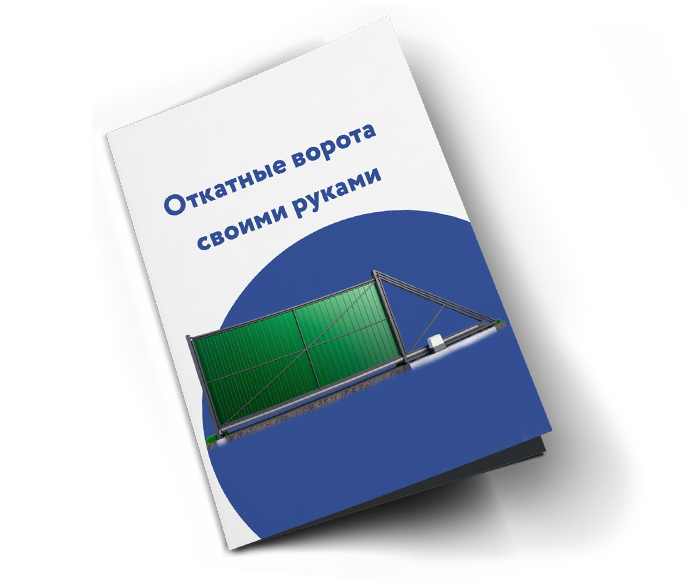
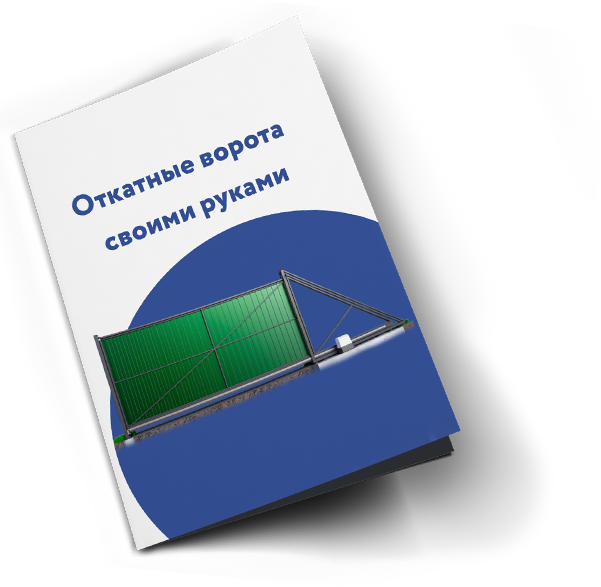
section self arrow width animation

diff --git a/app/css/style.css b/app/css/style.css
@@ -2309,8 +2309,23 @@ a:hover, a:focus {
   .self__box {
     text-align: left;
   }
-  .self__image img {
+  .self__image {
+    position: relative;
+  }
+  .self__img--1 {
+    position: relative;
     max-width: 380px;
+    z-index: 25;
+  }
+  .self__img--2 {
+    position: absolute;
+    left: -15px;
+    top: 160px;
+    z-index: 20;
+    width: 0;
+  }
+  .self__img--2--active {
+    width: 199px;
   }
   .self__text {
     font: 400 18px/27px "Circe", sans-serif;
@@ -2329,6 +2344,29 @@ a:hover, a:focus {
   }
 }
 
+@-webkit-keyframes widthAnimate {
+  0 {
+    width: 0;
+  }
+  100% {
+    width: 199px;
+  }
+}
+
+@keyframes widthAnimate {
+  0 {
+    width: 0;
+  }
+  100% {
+    width: 199px;
+  }
+}
+
+.widthAnimate {
+  -webkit-animation: widthAnimate 5s forwards;
+          animation: widthAnimate 5s forwards;
+}
+
 @media only screen and (min-width: 992px) {
   .self {
     padding: 180px 0 200px;
@@ -2336,11 +2374,14 @@ a:hover, a:focus {
   .self__image {
     position: relative;
   }
-  .self__image img {
+  .self__img--1 {
     max-width: none;
     position: absolute;
-    left: 0;
+    left: 50px;
     top: -100px;
+  }
+  .self__img--2 {
+    top: 135px;
   }
   .self__text {
     font: 400 20px/30px "Circe", sans-serif;
@@ -2351,9 +2392,13 @@ a:hover, a:focus {
 }
 
 @media only screen and (min-width: 1200px) {
-  .self__image img {
+  .self__img--1 {
     top: -120px;
-    left: 50px;
+    left: 100px;
+  }
+  .self__img--2 {
+    left: 25px;
+    top: 110px;
   }
   .form__confident {
     font: 300 14px/21px "Circe", sans-serif;
@@ -2480,11 +2525,18 @@ a:hover, a:focus {
 /* M O D A L S    S T Y L E                 */
 /* ---------------------------------------- */
 .tabs__item {
+  position: relative;
   display: none;
 }
 
 .tabs__item--active {
   display: block;
+}
+
+.tabs__item .ic--length, .tabs__item .ic--height {
+  position: absolute;
+  left: -70px;
+  top: -30px;
 }
 
 .tabs__text {
@@ -2546,6 +2598,7 @@ a:hover, a:focus {
   text-transform: uppercase;
   margin-bottom: 20px;
   text-align: center;
+  padding: 0 65px;
 }
 
 .test__btn {
@@ -2595,6 +2648,7 @@ a:hover, a:focus {
   background-image: -webkit-linear-gradient(45deg, rgba(255, 255, 255, 0.36) 25%, rgba(255, 255, 255, 0) 25%, transparent 50%, rgba(255, 255, 255, 0.36) 50%, rgba(255, 255, 255, 0.36) 75%, transparent 75%, transparent);
   background-image: linear-gradient(45deg, rgba(255, 255, 255, 0.36) 25%, rgba(255, 255, 255, 0) 25%, transparent 50%, rgba(255, 255, 255, 0.36) 50%, rgba(255, 255, 255, 0.36) 75%, transparent 75%, transparent);
   background-size: 10px 10px;
+  margin-bottom: 25px;
 }
 
 .progressbar__status {

diff --git a/app/sass/pages/_main.sass b/app/sass/pages/_main.sass
@@ -814,7 +814,7 @@ a
         color: #212121 
         &:hover,
         &:focus
-          color: #212121 
+          color: #212121  
 +r(760)
   .self
     padding: 140px 0 
@@ -822,8 +822,20 @@ a
     &__box
       text-align: left
     &__image
-      img
+      position: relative  
+    &__img
+      &--1
+        position: relative
         max-width: 380px 
+        z-index: 25
+      &--2
+        position: absolute  
+        left: -15px
+        top: 160px
+        z-index: 20
+        width: 0
+        &--active
+          width: 199px
     &__text
       font: 400 18px/27px $font-circe
       &--span       
@@ -834,27 +846,40 @@ a
     &__btn
       text-align: left 
       .ic
-        bottom: -35px     
+        bottom: -35px  
+@keyframes widthAnimate
+  0 
+    width: 0
+  100%
+    width: 199px
+.widthAnimate
+    animation: widthAnimate 5s forwards          
 +r(992)
   .self
     padding: 180px 0 200px
     &__image
       position: relative
-      img
+    &__img
+      &--1
         max-width: none
         position: absolute
-        left: 0
+        left: 50px
         top: -100px
+      &--2
+        top: 135px  
     &__text
       font: 400 20px/30px $font-circe 
       &--span       
         font: 700 20px/30px $font-circe
 +r(1200)
   .self
-    &__image
-      img
+    &__img
+      &--1
         top: -120px    
-        left: 50px   
+        left: 100px   
+      &--2
+        left: 25px
+        top: 110px  
   .form
     &__confident   
       font: 300 14px/21px $font-circe
@@ -937,9 +962,16 @@ a
 +comment("modals style")
 .tabs
   &__item
+    position: relative
     display: none
     &--active
       display: block
+    .ic
+      &--length,
+      &--height
+        position: absolute  
+        left: -70px
+        top: -30px
   &__text
     color: #fff
     margin-bottom: 30px
@@ -984,6 +1016,7 @@ a
     text-transform: uppercase    
     margin-bottom: 20px
     text-align: center
+    padding: 0 65px
   &__btn
     background-color: white
     border-radius: 5px
@@ -1017,6 +1050,7 @@ a
   border-radius: 20px
   background-image: linear-gradient(45deg, rgba(255, 255, 255, 0.36) 25%, rgba(255, 255, 255, 0) 25%, transparent 50%, rgba(255, 255, 255, 0.36) 50%, rgba(255, 255, 255, 0.36) 75%, transparent 75%, transparent)
   background-size: 10px 10px
+  margin-bottom: 25px
   &__status
     position: absolute
     top: 0

diff --git a/app/index.html b/app/index.html
@@ -459,7 +459,7 @@
               </div>
             </div>
             <div class="col-md-8 col-lg-10 hidden-sm-down">
-              <div class="self__image"><img src="img/self.png" alt="Брошюра"></div>
+              <div class="self__image"><img class="self__img self__img--1" src="img/self.png" alt="Брошюра"><img class="self__img self__img--2 animate" src="img/arrow.png" alt="Стрелка" data-animation="widthAnimate"></div>
             </div>
             <div class="col-24 col-lg-18">     
               <form class="contact__form contactForm contactForm--modal" method="post" action="./mail/mail.php">
@@ -568,9 +568,9 @@
                       <div class="progressbar">
                         <div class="progressbar__status"><span class="progressbar__value">0%</span></div>
                       </div>
-                      <div class="tabs__text">Вы получите Lorem ipsum dolor sit amet, consectetur adipisicing elit. Eveniet, nam.</div>
+                      <div class="tabs__text">Вы получите точный до миллиметра чертеж, указав размер ворот. Успейте до окончания таймера и чертеж достанется Вам совершенно бесплатно. Через 5 минут его стоимость составит 398 грн. Спешите!</div>
                       <div class="button-group text-center">
-                        <button class="button test__btn" href="#" data-tabs-control="next">Указать размер и Lorem ipsum dolor.<i class="ic ic--start"></i>
+                        <button class="button test__btn" href="#" data-tabs-control="next">Указать размер ворот и получить чертеж<i class="ic ic--start"></i>
                         </button>
                       </div>
                     </div>

diff --git a/app/js/main.js b/app/js/main.js
@@ -92,6 +92,18 @@ $(window).scroll(function (){
     });
   });
 
+  if( $( window ).width() >= 760 ) {
+
+    /*CSS ANIMATION*/
+    $(window).scroll(function (){ 
+      $('.animate').each(function (){
+       if ($(window).scrollTop() + $(window).height() >= $(this).offset().top){
+        $(this).addClass($(this).data('animation')); 
+      } 
+    }); 
+    });
+
+  }
 
   $('.result__slider').slick({
     slidesToShow: 1,
